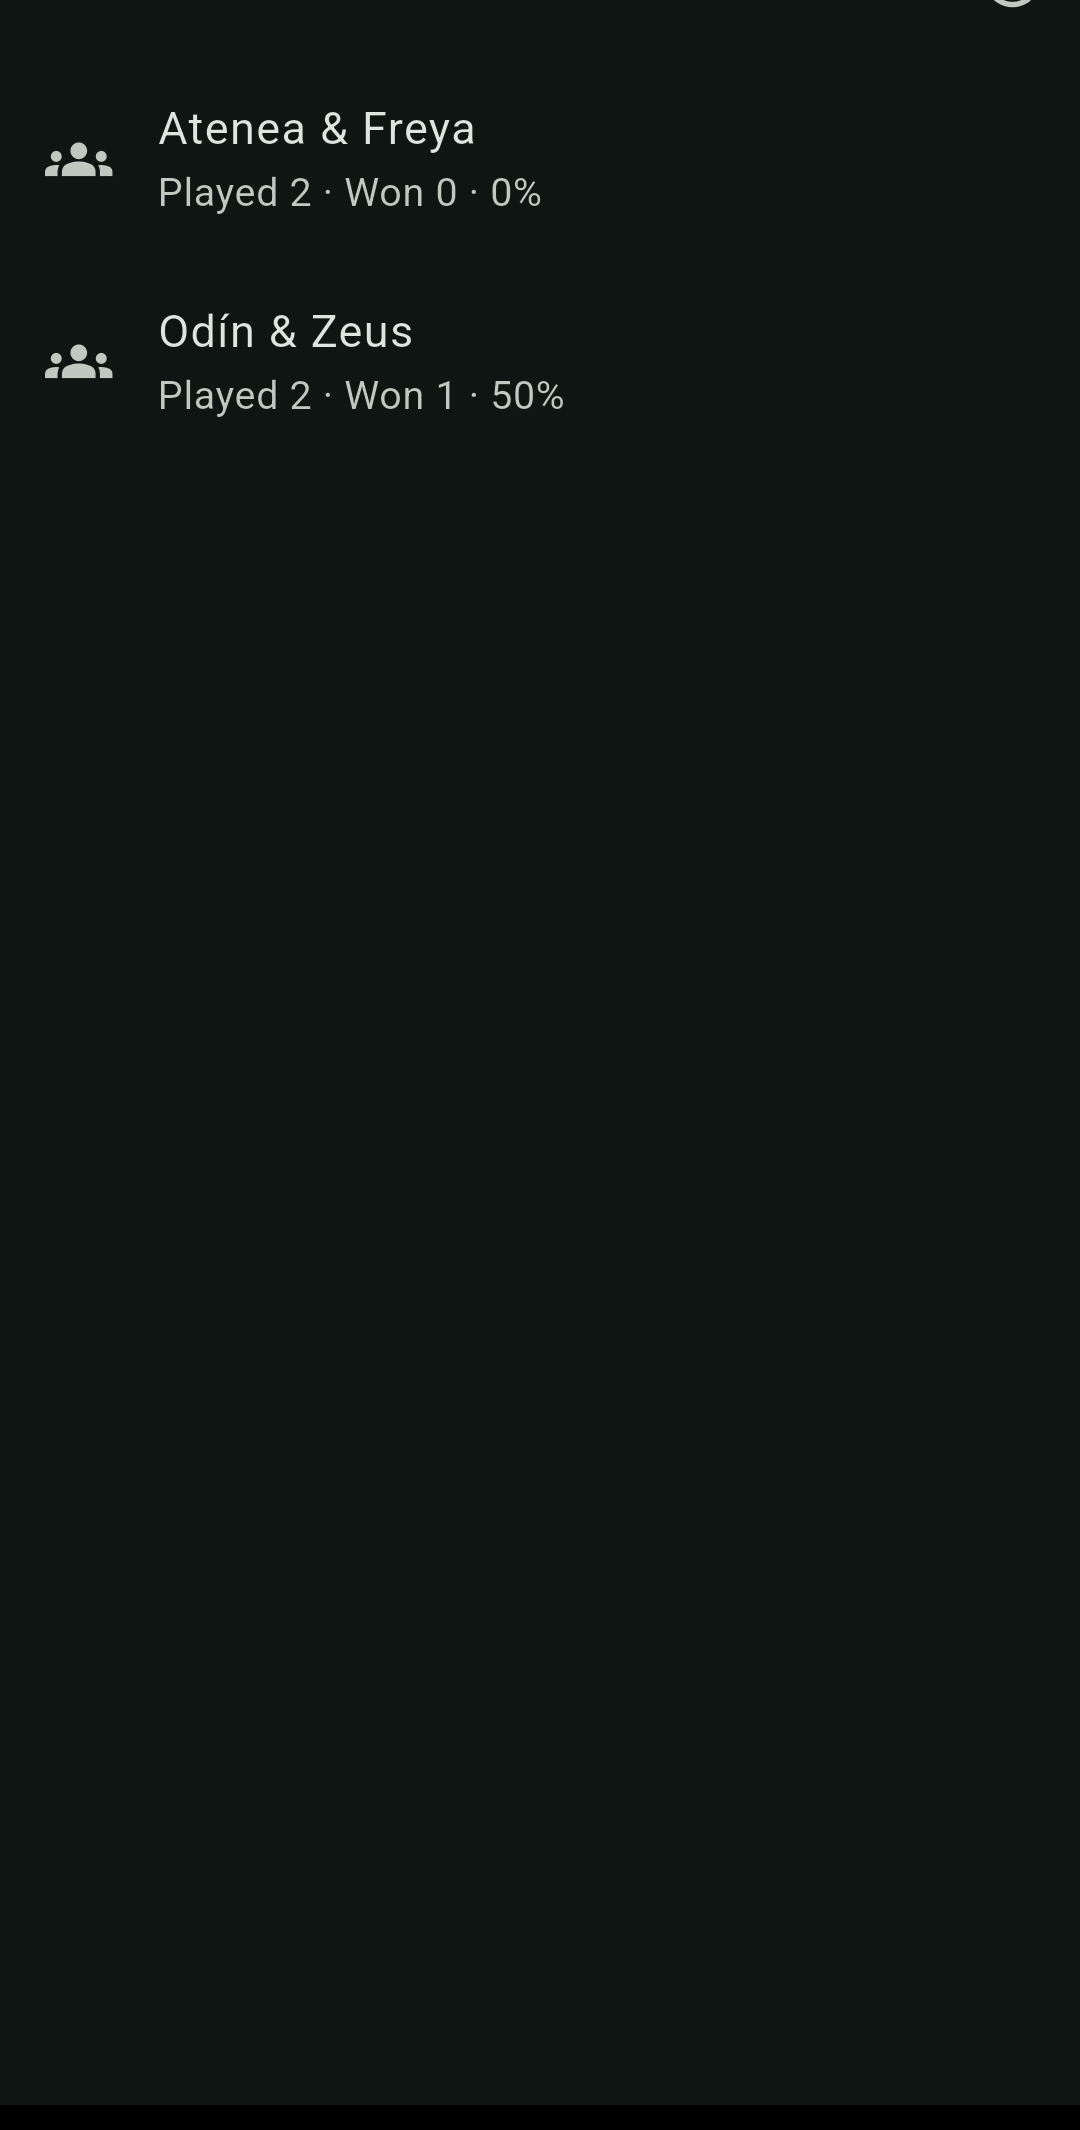
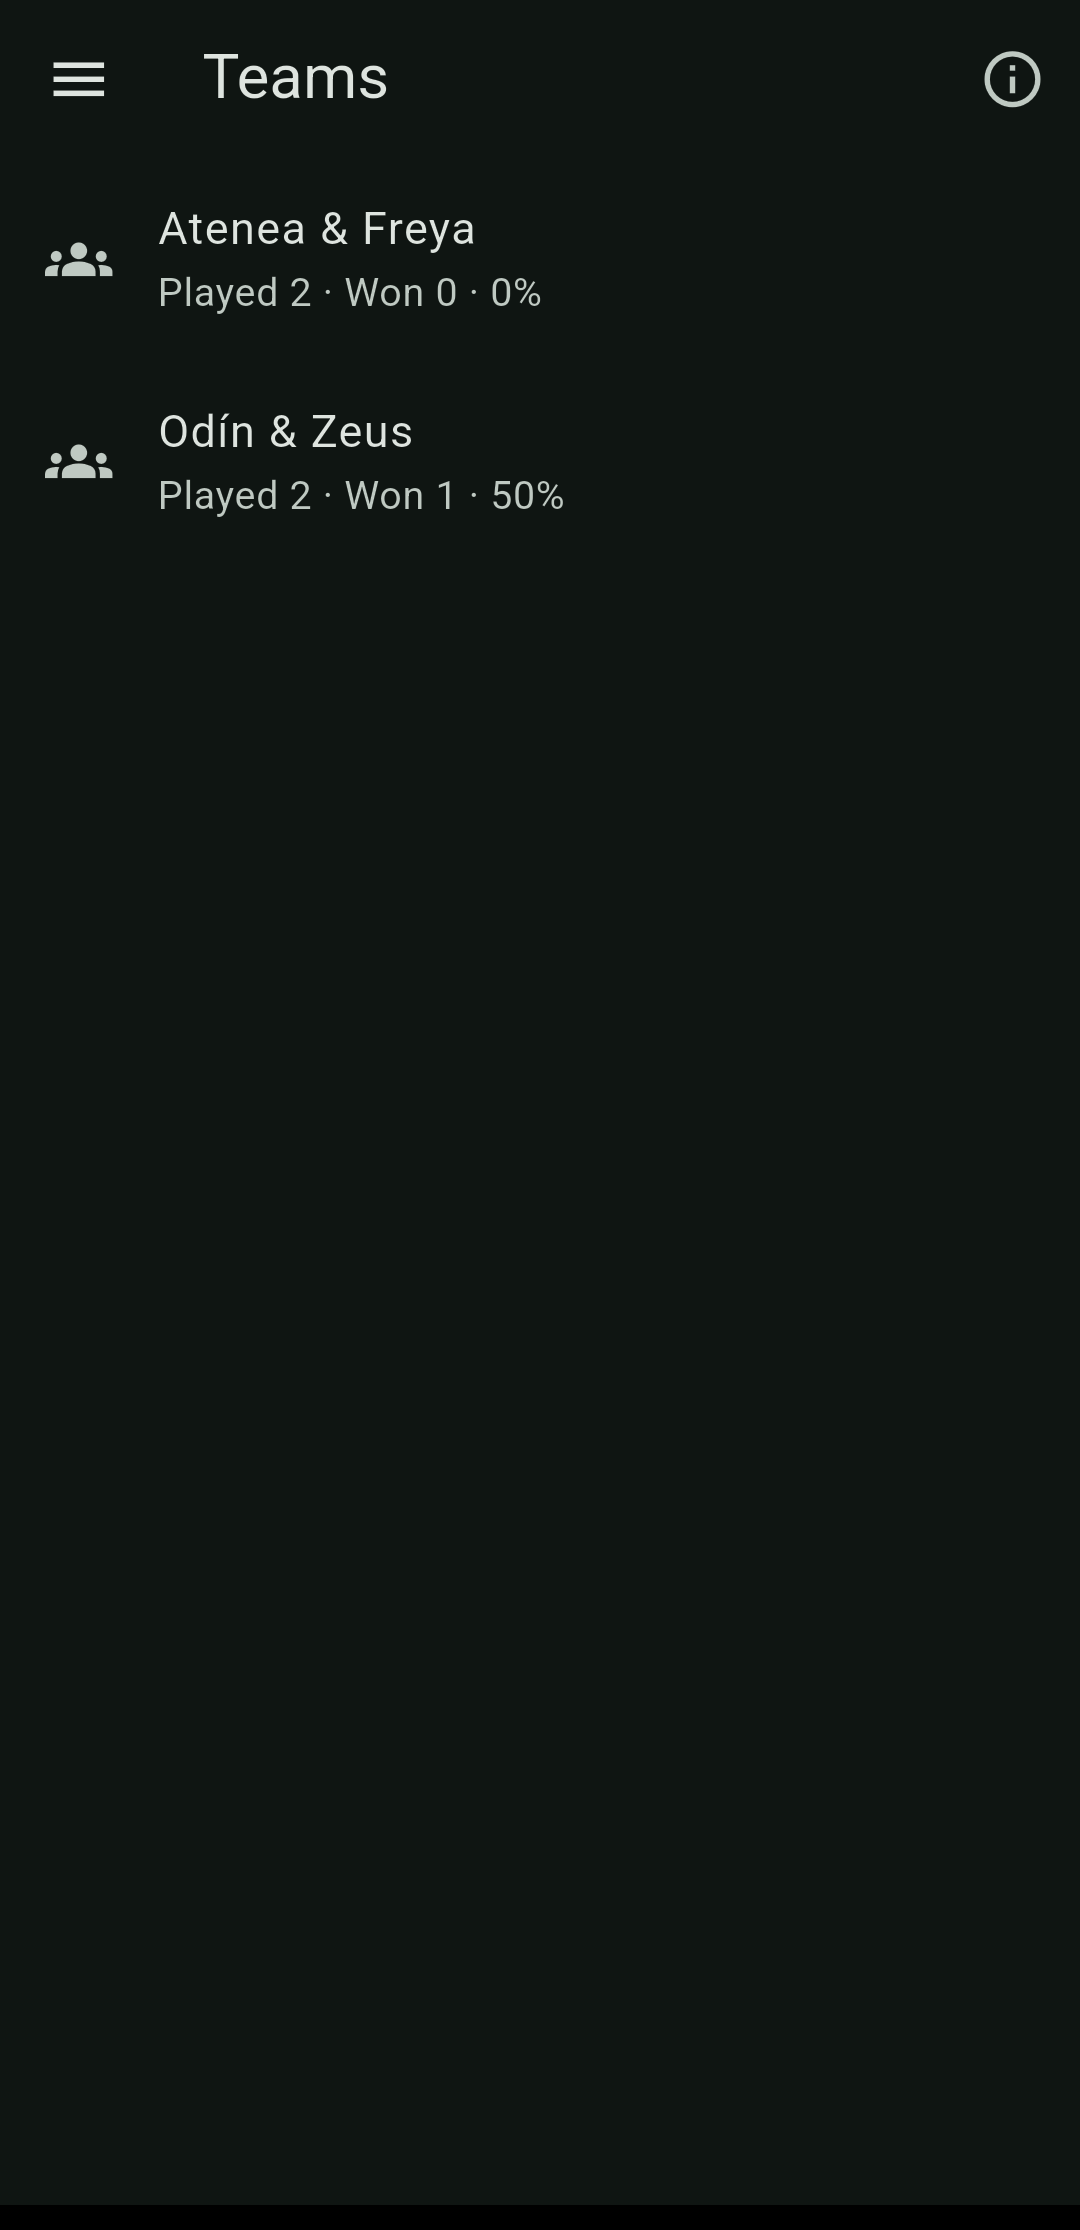
Dominada: screenshots with their app bars intact, and dimensions that match
The previous set was cropped 100px off the top for a status bar that Waydroid
does not have, so several shots lost their app bar — the Teams one lost its
title entirely and the crop ate into the first row. Recaptured, cropping only
the navigation bar.

Every width and height attribute is now derived from the actual file rather
than assumed, so nothing reflows as the images load.

Four of the ten are carried over from the previous commit because a fresh
attempt at them produced duplicates: the scoreboard's view menu closes after
each selection, so a scripted sequence of taps against fixed coordinates
selected the same view three times and captured three identical pictures
under three different names. Checked by hashing the set before publishing —
it would have shipped as "notepad", "large" and "sheet" all showing the card
view, which is the kind of wrong that survives a casual look.

diff --git a/dominada/index.html b/dominada/index.html
@@ -76,11 +76,11 @@
   <p class="shots-hint">Desliza para ver más &rarr;</p>
   <div class="shots">
     <figure>
-      <img src="../img/dominada/partidas.png" alt="Pantalla de partidas: la partida activa con el marcador y la meta." width="1080" height="2130" loading="lazy">
+      <img src="../img/dominada/partidas.png" alt="Pantalla de partidas: la partida activa con el marcador y la meta." width="1080" height="2230" loading="lazy">
       <figcaption>La partida activa, lista para continuar.</figcaption>
     </figure>
     <figure>
-      <img src="../img/dominada/tablero.png" alt="Tablero: los totales de cada pareja y el detalle de cada mano." width="1080" height="2130" loading="lazy">
+      <img src="../img/dominada/tablero.png" alt="Tablero: los totales de cada pareja y el detalle de cada mano." width="1080" height="2230" loading="lazy">
       <figcaption>Vista tarjeta: los totales grandes y el detalle de cada mano.</figcaption>
     </figure>
     <figure>
@@ -96,7 +96,7 @@
       <figcaption>La planilla oficial — también sale en PDF rellenable.</figcaption>
     </figure>
     <figure>
-      <img src="../img/dominada/remoto.png" alt="Pantalla Remoto: abrir una mesa, mesa nueva, entrar a una mesa." width="1080" height="2130" loading="lazy">
+      <img src="../img/dominada/remoto.png" alt="Pantalla Remoto: abrir una mesa, mesa nueva, entrar a una mesa." width="1080" height="2230" loading="lazy">
       <figcaption>Remoto: la mesa en los teléfonos, junta o de lejos.</figcaption>
     </figure>
     <figure>
@@ -104,15 +104,15 @@
       <figcaption>Una sala de lejos: el QR y el código. Quien lo tenga, entra.</figcaption>
     </figure>
     <figure>
-      <img src="../img/dominada/jugadores.png" alt="Listado de jugadores con su récord." width="1080" height="2130" loading="lazy">
+      <img src="../img/dominada/jugadores.png" alt="Listado de jugadores con su récord." width="1080" height="2230" loading="lazy">
       <figcaption>Cada jugador guarda su récord y sus partidas.</figcaption>
     </figure>
     <figure>
-      <img src="../img/dominada/parejas.png" alt="Listado de parejas, que salen solas de las partidas jugadas." width="1080" height="2130" loading="lazy">
+      <img src="../img/dominada/parejas.png" alt="Listado de parejas, que salen solas de las partidas jugadas." width="1080" height="2230" loading="lazy">
       <figcaption>Las parejas salen solas de lo que se ha jugado.</figcaption>
     </figure>
     <figure>
-      <img src="../img/dominada/perfiles.png" alt="Perfiles de reglas incluidos y propios." width="1080" height="2130" loading="lazy">
+      <img src="../img/dominada/perfiles.png" alt="Perfiles de reglas incluidos y propios." width="1080" height="2230" loading="lazy">
       <figcaption>Los perfiles de reglas: los que vienen y los tuyos.</figcaption>
     </figure>
   </div>

diff --git a/dominada/en/index.html b/dominada/en/index.html
@@ -66,11 +66,11 @@
   <p class="shots-hint">Swipe for more &rarr;</p>
   <div class="shots">
     <figure>
-      <img src="../../img/dominada/partidas.png" alt="Games screen: the active game with the score and the target." width="1080" height="2130" loading="lazy">
+      <img src="../../img/dominada/partidas.png" alt="Games screen: the active game with the score and the target." width="1080" height="2230" loading="lazy">
       <figcaption>The game in play, ready to resume.</figcaption>
     </figure>
     <figure>
-      <img src="../../img/dominada/tablero.png" alt="Scoreboard: each team's total and every hand broken down." width="1080" height="2130" loading="lazy">
+      <img src="../../img/dominada/tablero.png" alt="Scoreboard: each team's total and every hand broken down." width="1080" height="2230" loading="lazy">
       <figcaption>Card view: large totals and every hand broken down.</figcaption>
     </figure>
     <figure>
@@ -86,7 +86,7 @@
       <figcaption>The official scoresheet — it also exports as a fillable PDF.</figcaption>
     </figure>
     <figure>
-      <img src="../../img/dominada/remoto.png" alt="Remote screen: open a table, new table, join a table." width="1080" height="2130" loading="lazy">
+      <img src="../../img/dominada/remoto.png" alt="Remote screen: open a table, new table, join a table." width="1080" height="2230" loading="lazy">
       <figcaption>Remote: the table on the phones, together or apart.</figcaption>
     </figure>
     <figure>
@@ -94,15 +94,15 @@
       <figcaption>A room from afar: the QR and the code. Anyone holding it is in.</figcaption>
     </figure>
     <figure>
-      <img src="../../img/dominada/jugadores.png" alt="List of players with their records." width="1080" height="2130" loading="lazy">
+      <img src="../../img/dominada/jugadores.png" alt="List of players with their records." width="1080" height="2230" loading="lazy">
       <figcaption>Every player keeps a record and their games.</figcaption>
     </figure>
     <figure>
-      <img src="../../img/dominada/parejas.png" alt="List of teams, which fall out of the games played." width="1080" height="2130" loading="lazy">
+      <img src="../../img/dominada/parejas.png" alt="List of teams, which fall out of the games played." width="1080" height="2230" loading="lazy">
       <figcaption>Teams fall out of what has already been played.</figcaption>
     </figure>
     <figure>
-      <img src="../../img/dominada/perfiles.png" alt="Included and custom rule profiles." width="1080" height="2130" loading="lazy">
+      <img src="../../img/dominada/perfiles.png" alt="Included and custom rule profiles." width="1080" height="2230" loading="lazy">
       <figcaption>Rule profiles: the ones included and your own.</figcaption>
     </figure>
   </div>
